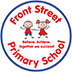
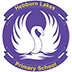
no message

diff --git a/contact.html b/contact.html
@@ -4,7 +4,7 @@
     <meta http-equiv="Content-Type" content="text/html; charset=utf-8">
     <meta name="viewport" content="width=device-width,initial-scale=1.0,user-scalable=no"/>
     <meta name="apple-mobile-web-app-capable" content="yes">
-    <title>Front Street Primary School - Contact</title>
+    <title>Hebburn Lakes Primary School - Contact</title>
     <link rel="stylesheet" href="css/jquery.mobile-1.0.1.min.css"/>
     <link rel="stylesheet" href="css/app.css"/>
     <script src="js/jquery-1.6.4.min.js"></script>
@@ -27,15 +27,15 @@
 
       <div data-role="content" data-iscroll>
         <div id="contactinfo">
-			<h3> Front Street Primary School</h3>
+			<h3> Hebburn Lakes Primary School</h3>
 			<p>
-			<a id="mapbutton" target="_system" onclick="window.open('http://maps.google.co.uk/maps?q=Front+Street+Primary+School,+Whickham&hl=en&sll=54.9472977,-1.6821664&sspn=0.016638,0.045447&hq=Front+Street+Primary+School,+Whickham&t=m&z=18', '_system')" data-role="button" data-theme="b" data-inline="true">Map</a>
+			<a id="mapbutton" target="_system" onclick="window.open('https://maps.google.co.uk/maps?q=Hebburn+Lakes+Primary+School&hl=en&sll=54.969348,-1.5094917&hq=Hebburn+Lakes+Primary+School&t=m&z=18', '_system')" data-role="button" data-theme="b" data-inline="true">Map</a>
 			North View,
 			Whickham<br />
 			Newcastle Upon Tyne,
 			NE16 4AY</p>
 			<a id="phonebutton" target="_system" href="tel:0191-488-1941" data-role="button" data-theme="b">0191 488 1941</a>
-			<a id="emailbutton" target="_system" href="mailto:office@frontstreetprimary.co.uk" data-role="button" data-theme="b">office@frontstreetprimary.co.uk</a>
+			<a id="emailbutton" target="_system" href="mailto:office@hebburnlakes.co.uk" data-role="button" data-theme="b">office@hebburnlakes.co.uk</a>
         </div>
         <div class="clear"></div>
       </div>

diff --git a/settings.html b/settings.html
@@ -5,7 +5,7 @@
     <meta name="viewport" content="width=device-width,initial-scale=1.0,user-scalable=no"/>
 	<meta http-equiv="Content-Security-Policy" content="default-src *; style-src 'self' 'unsafe-inline'; script-src 'self' 'unsafe-inline' 'unsafe-eval'">
     <meta name="apple-mobile-web-app-capable" content="yes">
-    <title>Front Street Primary School - Settings</title>
+    <title>Hebburn Lakes Primary School - Settings</title>
     <link rel="stylesheet" href="css/jquery.mobile-1.0.1.min.css"/>
     <link rel="stylesheet" href="css/app.css"/>
     <script src="js/jquery-1.6.4.min.js"></script>
@@ -57,7 +57,7 @@
 
 	  <script>
 	  var taglist = {};
-	  var url = "http://www.frontstreetprimary.co.uk/mobile/api/getallcategories.php";
+	  var url = "http://www.hebburnlakes.co.uk/mobile/api/getallcategories.php";
 			$.getJSON(url, function(json) {
 				console.log(json);
 				console.log(json.items.length);

diff --git a/index.html b/index.html
@@ -5,7 +5,7 @@
     <meta name="viewport" content="width=device-width,initial-scale=1.0,user-scalable=no"/>
     <meta name="apple-mobile-web-app-capable" content="yes">
 	<meta http-equiv="Content-Security-Policy" content="default-src *; style-src 'self' 'unsafe-inline'; script-src 'self' 'unsafe-inline' 'unsafe-eval'">
-    <title>Front Street Primary School</title>
+    <title>Hebburn Lakes Primary School</title>
     <link rel="stylesheet" href="css/jquery.mobile-1.0.1.min.css"/>
     <link rel="stylesheet" href="css/app.css"/>
     <script src="js/jquery-1.6.4.min.js"></script>
@@ -25,7 +25,7 @@
       	<div></div>
 
 		<div id="homepagelogo">
-			<img src="icons/frontstreet.png" width="288" style="margin-top:10px;">
+			<img src="icons/hebburnlakes.png" width="288" style="margin-top:10px;">
 		</div>
 
 		<div>

diff --git a/css/app.css b/css/app.css
@@ -169,7 +169,7 @@ span.latestnews {
 
 .ui-page,#settingsPage .ui-content {
 
- 	background: url(../icons/front-street-footer.png) #f4f4f4;
+ 	background: url(../icons/footer.png) #f4f4f4;
     	background-repeat: no-repeat;
     	background-position: bottom center;
     	background-size: 225% auto;	
@@ -811,7 +811,7 @@ div.attachments img {
 
 	text-align:center;
 	padding:0;
- 	background: url(../icons/front-street-footer.png);
+ 	background: url(../icons/footer.png);
     	background-repeat: no-repeat;
     	background-position: bottom center;
     	background-size: 225% auto;

diff --git a/viewpage.html b/viewpage.html
@@ -4,7 +4,7 @@
     <meta http-equiv="Content-Type" content="text/html; charset=utf-8" />
     <meta name="viewport" content="width=device-width,initial-scale=1.0,user-scalable=no" />
     <meta name="apple-mobile-web-app-capable" content="yes" />
-    <title>Front Street Primary School - Pages</title>
+    <title>Hebburn Lakes Primary School - Pages</title>
     <link type="text/css" rel="stylesheet" href="css/jquery.mobile-1.0.1.min.css" />
     <link type="text/css" rel="stylesheet" href="css/app.css" />
    	<link type="text/css" rel="stylesheet" href="css/photoswipe.css" />

diff --git a/viewpost.html b/viewpost.html
@@ -4,7 +4,7 @@
     <meta http-equiv="Content-Type" content="text/html; charset=utf-8" />
     <meta name="viewport" content="width=device-width,initial-scale=1.0,user-scalable=no" />
     <meta name="apple-mobile-web-app-capable" content="yes" />
-    <title>Front Street Primary School - Posts</title>
+    <title>Hebburn Lakes Primary School - Posts</title>
     <link type="text/css" rel="stylesheet" href="css/jquery.mobile-1.0.1.min.css" />
     <link type="text/css" rel="stylesheet" href="css/app.css" />
    	<link type="text/css" rel="stylesheet" href="css/photoswipe.css" />

diff --git a/schoolinfo.html b/schoolinfo.html
@@ -4,7 +4,7 @@
     <meta http-equiv="Content-Type" content="text/html; charset=utf-8">
     <meta name="viewport" content="width=device-width,initial-scale=1.0,user-scalable=no"/>
     <meta name="apple-mobile-web-app-capable" content="yes">
-    <title>Front Street Primary School - School Info</title>
+    <title>Hebburn Lakes Primary School - School Info</title>
     <link rel="stylesheet" href="css/jquery.mobile-1.0.1.min.css"/>
     <link rel="stylesheet" href="css/app.css"/>
     <script src="js/jquery-1.6.4.min.js"></script>

diff --git a/newsletter.html b/newsletter.html
@@ -4,7 +4,7 @@
     <meta http-equiv="Content-Type" content="text/html; charset=utf-8">
     <meta name="viewport" content="width=device-width,initial-scale=1.0,user-scalable=no"/>
     <meta name="apple-mobile-web-app-capable" content="yes">
-    <title>Front Street Primary School - Newsletter</title>
+    <title>Hebburn Lakes Primary School - Newsletter</title>
     <link rel="stylesheet" href="css/jquery.mobile-1.0.1.min.css"/>
     <link rel="stylesheet" href="css/app.css"/>
     <script src="js/jquery-1.6.4.min.js"></script>

diff --git a/categories.html b/categories.html
@@ -4,7 +4,7 @@
     <meta http-equiv="Content-Type" content="text/html; charset=utf-8">
     <meta name="viewport" content="width=device-width,initial-scale=1.0,user-scalable=no"/>
     <meta name="apple-mobile-web-app-capable" content="yes">
-    <title>Front Street Primary School - Classes</title>
+    <title>Hebburn Lakes Primary School - Classes</title>
     <link rel="stylesheet" href="css/jquery.mobile-1.0.1.min.css"/>
     <link rel="stylesheet" href="css/app.css"/>
     <script src="js/jquery-1.6.4.min.js"></script>

diff --git a/posts.html b/posts.html
@@ -4,7 +4,7 @@
     <meta http-equiv="Content-Type" content="text/html; charset=utf-8">
     <meta name="viewport" content="width=device-width,initial-scale=1.0,user-scalable=no"/>
     <meta name="apple-mobile-web-app-capable" content="yes">
-    <title>Front Street Primary School - Posts</title>
+    <title>Hebburn Lakes Primary School - Posts</title>
     <link rel="stylesheet" href="css/jquery.mobile-1.0.1.min.css"/>
     <link rel="stylesheet" href="css/app.css"/>
     <script src="js/jquery-1.6.4.min.js"></script>

diff --git a/index-filter.html b/index-filter.html
@@ -4,7 +4,7 @@
     <meta http-equiv="Content-Type" content="text/html; charset=utf-8">
     <meta name="viewport" content="width=device-width,initial-scale=1.0,user-scalable=no"/>
     <meta name="apple-mobile-web-app-capable" content="yes">
-    <title>Front Street Primary School 1</title>
+    <title>Hebburn Lakes Primary School 1</title>
     <link rel="stylesheet" href="css/jquery.mobile-1.0.1.min.css"/>
     <link rel="stylesheet" href="css/app.css"/>
     <script src="js/jquery-1.6.4.min.js"></script>

diff --git a/js/app.js b/js/app.js
@@ -1,4 +1,4 @@
-var siteURL = "http://www.frontstreetprimary.co.uk";
+var siteURL = "http://www.hebburnlakes.co.uk";
 var apiPath = "/mobile/api/";
 var postPath = "/news/age/";
 var latestPath = "/latest/";
